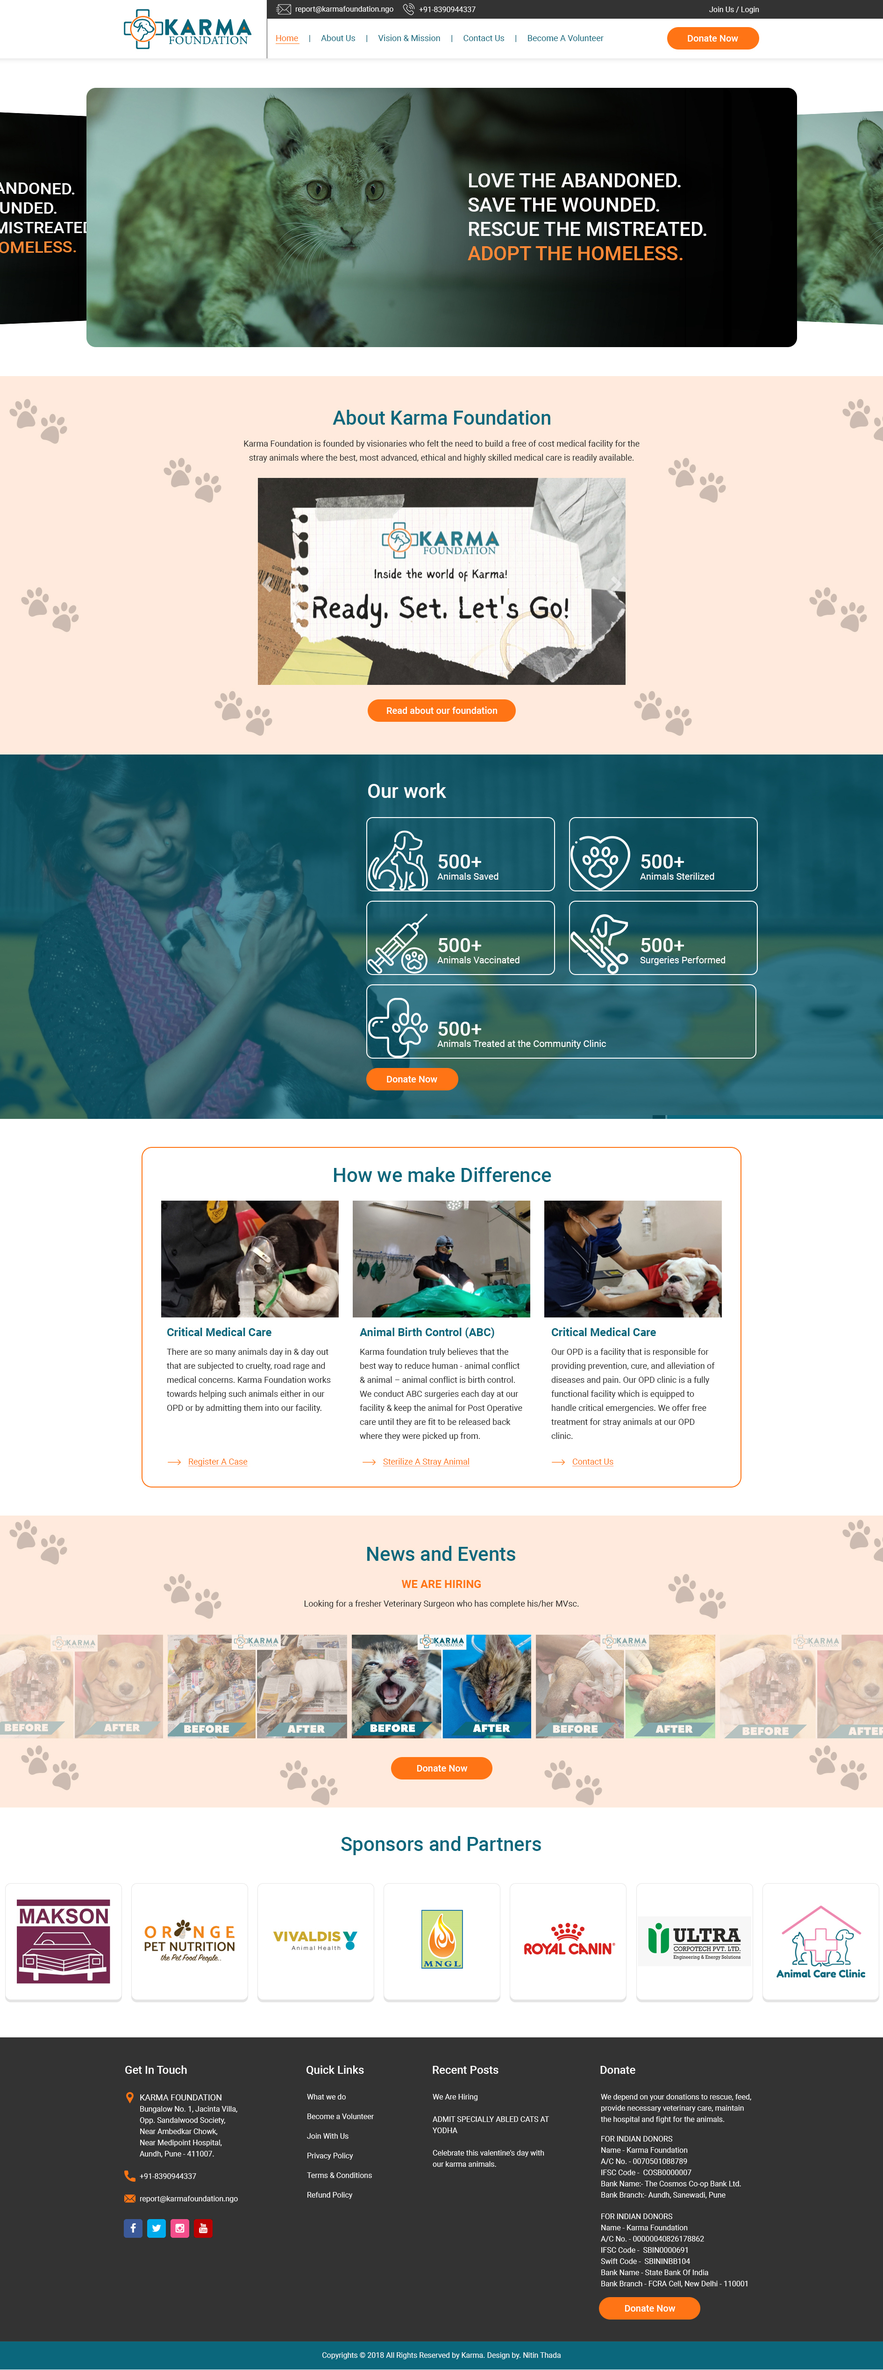
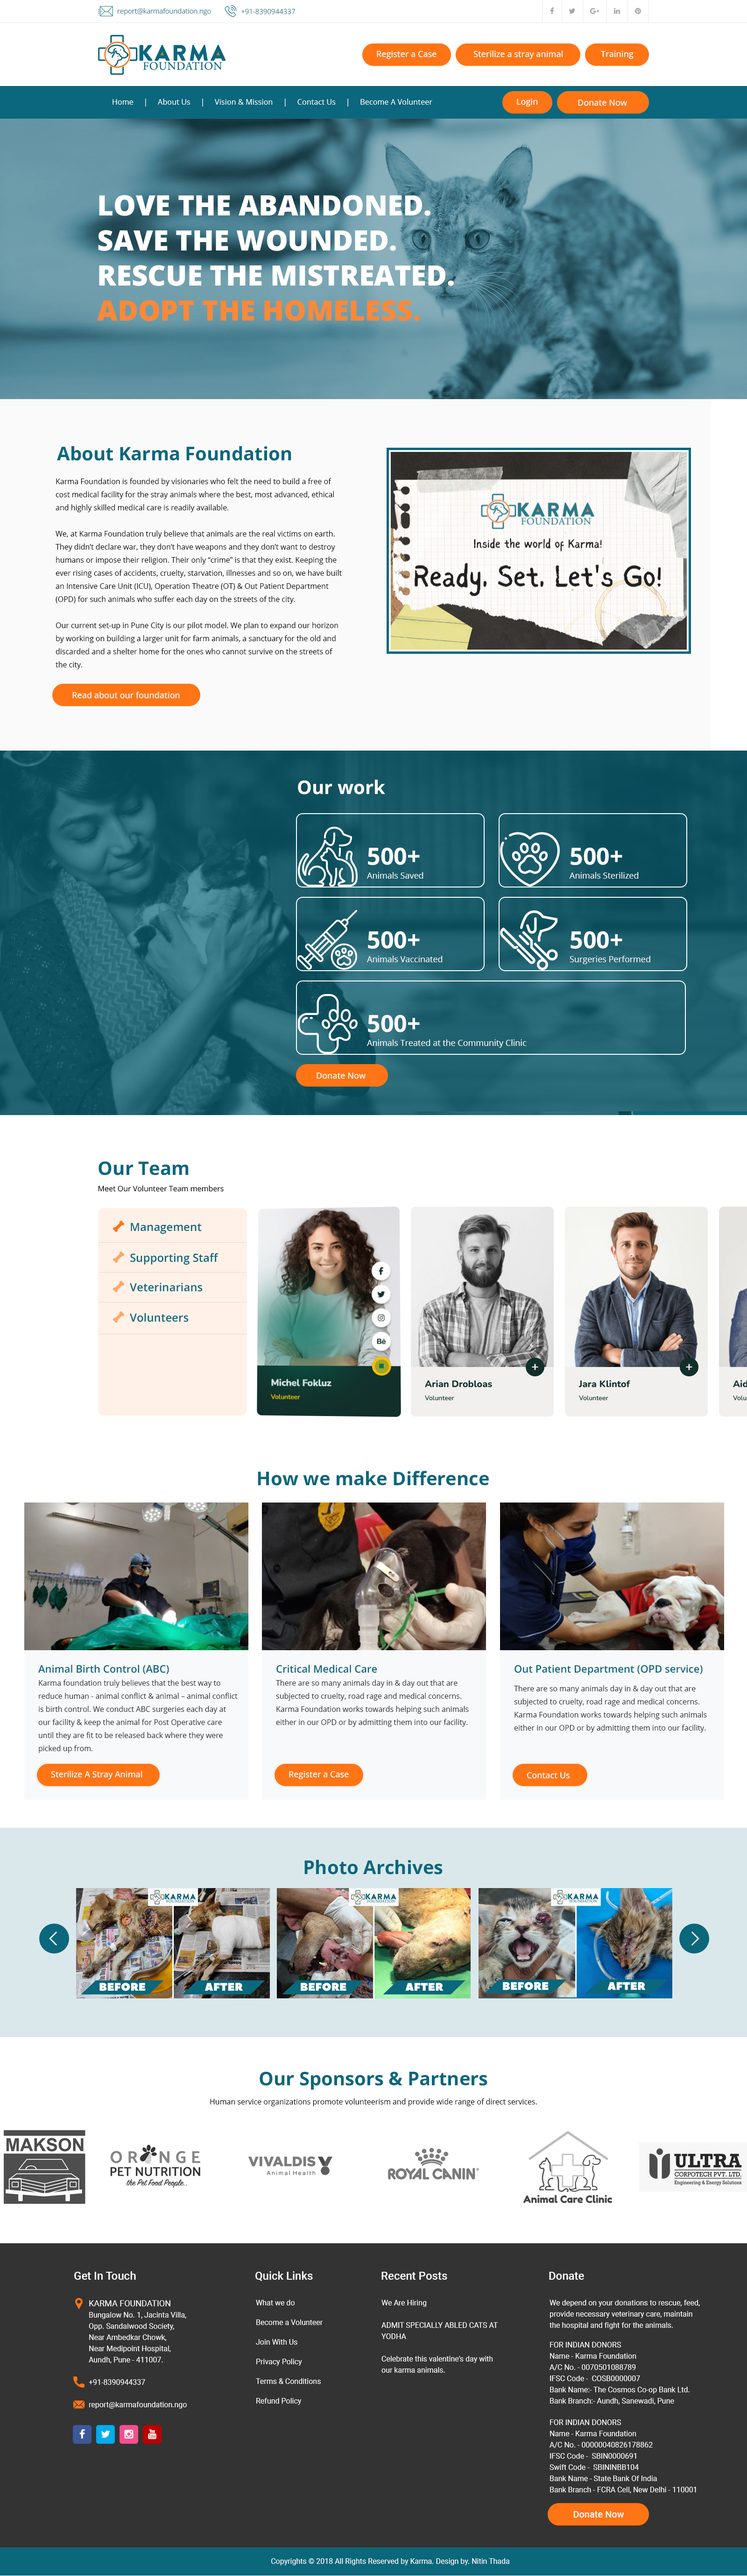
changes

diff --git a/karma.html b/karma.html
@@ -8,7 +8,7 @@
 
 <style type="text/css">  
   body{
-    background: url(img/homepage-v3.jpg) no-repeat top center;
+    background: url(img/homepage-V1.jpg) no-repeat top center;
     height: 5512px;
     width: 100%;
     margin: 0;
